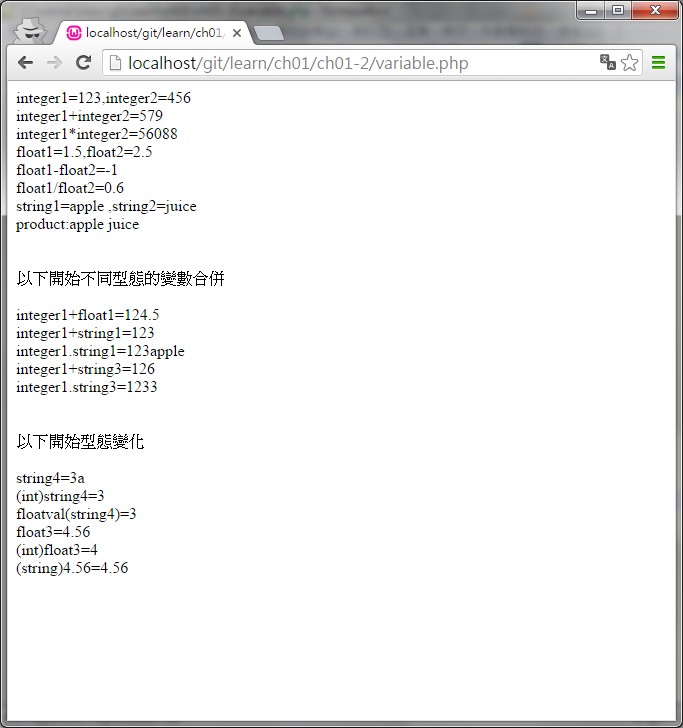
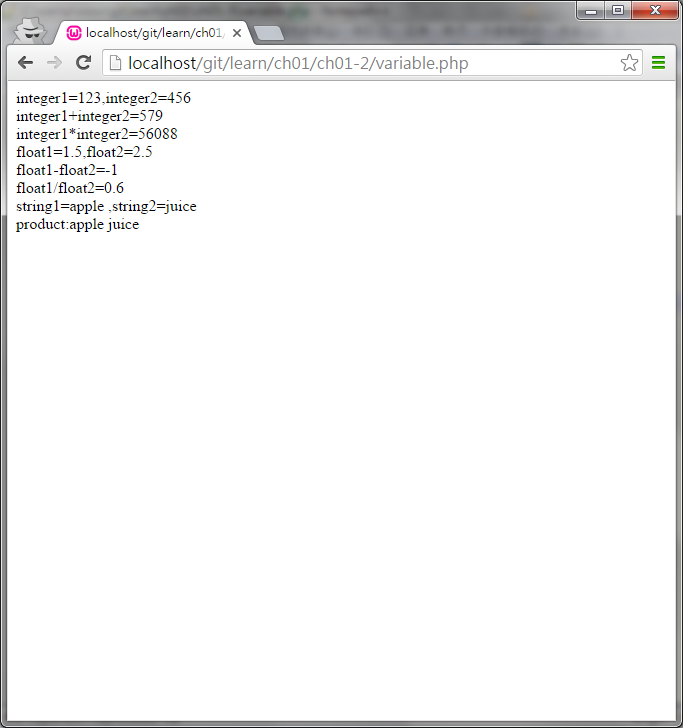
ch01

diff --git a/ch01/ch01-3/variable.php b/ch01/ch01-3/variable.php
@@ -1,0 +1,65 @@
+<?php
+header("Content-Type:text/html; charset=utf-8");
+//宣告這個網頁編碼是utf-8
+
+$integer1=123;
+$integer2=456;
+echo "integer1=".$integer1.",integer2=".$integer2."<br>";
+//宣告兩個整數變數其值分別為123及456
+
+$float1=1.5;
+$float2=2.5;
+echo "float1=".$float1.",float2=".$float2."<br>";
+//宣告兩個浮點數變數其值分別為1.5及2.5
+
+$string1="apple ";
+$string2="juice";
+echo "string1=".$string1.",string2=".$string2."<br>";
+//宣告兩個字串變數一個為apple 一個是juice
+
+//----------------------------------------------------------------------
+//以下開始不同型態的變數合併
+//----------------------------------------------------------------------
+echo "<br><br>以下開始不同型態的變數合併<br><br>";
+echo "integer1+float1=".($integer1+$float1)."<br>";
+//整數+浮點數由於其中一個是浮點數運算後的值也是浮點數
+echo "integer1+string1=".($integer1+$string1)."<br>";
+//整數+字串因為字串內的值不是整數或浮點數所以無法相加，只會顯示integer1
+echo "integer1.string1=".($integer1.$string1)."<br>";
+//整數.字串由於.是字串間在使用所以這樣操作的結果就是把integer1當成字串來看
+//將兩者相連接
+$string3="3";
+echo "string3=".$string3."<br>";
+//宣告一個變數名稱為string3其值為字串3
+echo "integer1+string3=".($integer1+$string3)."<br>";
+//整數+字串因為字串內的值可被轉為數字所以可以直接相加
+echo "integer1.string3=".($integer1.$string3)."<br>";
+//整數.字串雖然string3的值是3可是由於用.相連結的關係所以不會得到相加的結果
+
+//----------------------------------------------------------------------
+//以下開始型態變化
+//----------------------------------------------------------------------
+echo "<br><br>以下開始型態變化<br><br>";
+
+$string4="3a";
+//宣告一個變數string4其值為3a是一個字串
+echo "string4=".$string4."<br>";
+$intstring4=(int)$string4;
+//宣告一個變數intstring4將string4轉成整數後儲存
+echo "(int)string4=".$intstring4."<br>";
+$floatvalstring4=floatval($string4);
+//宣告一個變數floatvalstring4將string4轉成浮點數後儲存
+echo "floatval(string4)=".$floatvalstring4."<br>";
+
+$float3=4.56;
+//宣告一個變數float3其值為4.56是一個浮點數
+echo "float3=".$float3."<br>";
+$intfloat3=(int)$float3;
+//宣告一個變數intfloat3將float3轉成整數後儲存
+echo "(int)float3=".$intfloat3."<br>";
+$stringfloat3=(string)$float3;
+//宣告一個變數stringfloat3將float3轉成字串後儲存
+echo "(string)$float3=".$stringfloat3."<br>";
+
+
+?>

diff --git a/ch01/ch01-2/variable.php b/ch01/ch01-2/variable.php
@@ -32,47 +32,6 @@ echo "product:".$product."<br>";
 //宣告兩個字串變數一個為apple 一個是juice
 //在php中字串的連接是使用.
 //宣告一個變數product將string1連結string2的結果儲存
-//----------------------------------------------------------------------
-//以下開始不同型態的變數合併
-//----------------------------------------------------------------------
-echo "<br><br>以下開始不同型態的變數合併<br><br>";
-echo "integer1+float1=".($integer1+$float1)."<br>";
-//整數+浮點數由於其中一個是浮點數運算後的值也是浮點數
-echo "integer1+string1=".($integer1+$string1)."<br>";
-//整數+字串因為字串內的值不是整數或浮點數所以無法相加，只會顯示integer1
-echo "integer1.string1=".($integer1.$string1)."<br>";
-//整數.字串由於.是字串間在使用所以這樣操作的結果就是把integer1當成字串來看
-//將兩者相連接
-$string3="3";
-echo "integer1+string3=".($integer1+$string3)."<br>";
-//整數+字串因為字串內的值可被轉為數字所以可以直接相加
-echo "integer1.string3=".($integer1.$string3)."<br>";
-//整數.字串雖然string3的值是3可是由於用.相連結的關係所以不會得到相加的結果
-
-//----------------------------------------------------------------------
-//以下開始型態變化
-//----------------------------------------------------------------------
-echo "<br><br>以下開始型態變化<br><br>";
-
-$string4="3a";
-//宣告一個變數string4其值為3a是一個字串
-echo "string4=".$string4."<br>";
-$intstring4=(int)$string4;
-//宣告一個變數intstring4將string4轉成整數後儲存
-echo "(int)string4=".$intstring4."<br>";
-$floatvalstring4=floatval($string4);
-//宣告一個變數floatvalstring4將string4轉成浮點數後儲存
-echo "floatval(string4)=".$floatvalstring4."<br>";
-
-$float3=4.56;
-//宣告一個變數float3其值為4.56是一個浮點數
-echo "float3=".$float3."<br>";
-$intfloat3=(int)$float3;
-//宣告一個變數intfloat3將float3轉成整數後儲存
-echo "(int)float3=".$intfloat3."<br>";
-$stringfloat3=(string)$float3;
-//宣告一個變數stringfloat3將float3轉成字串後儲存
-echo "(string)$float3=".$stringfloat3."<br>";
 
 
 ?>

diff --git a/ch01/ch01-3/README.md b/ch01/ch01-3/README.md
@@ -1,13 +1,13 @@
-#ch01-2 變數運算
+#ch01-3 變數轉換
 
 
-提供幾個基本的變數型態間的運算
+提供幾個基本的變數型態間的轉換
 
 
 ##目錄
 
 |章節                                        |說明                                         |
 |--------------------------------------------|---------------------------------------------|
-|[variable](variable.php)                    |php的變數型態運算                            |
+|[variable](variable.php)                    |php的變數型態轉換                            |
 
-![result](ch01-2.png)
+![result](ch01-3.png)

diff --git a/ch01/README.md b/ch01/README.md
@@ -13,4 +13,5 @@
 |章節                                        |說明                                         |
 |--------------------------------------------|---------------------------------------------|
 |[ch01-1](ch01-1/)                           |php的變數型態                                |
-|[ch01-2](ch01-2/)                           |變數間的運算及轉換                           |
+|[ch01-2](ch01-2/)                           |變數的運算                                   |
+|[ch01-3](ch01-3/)                           |變數的轉換                                   |
